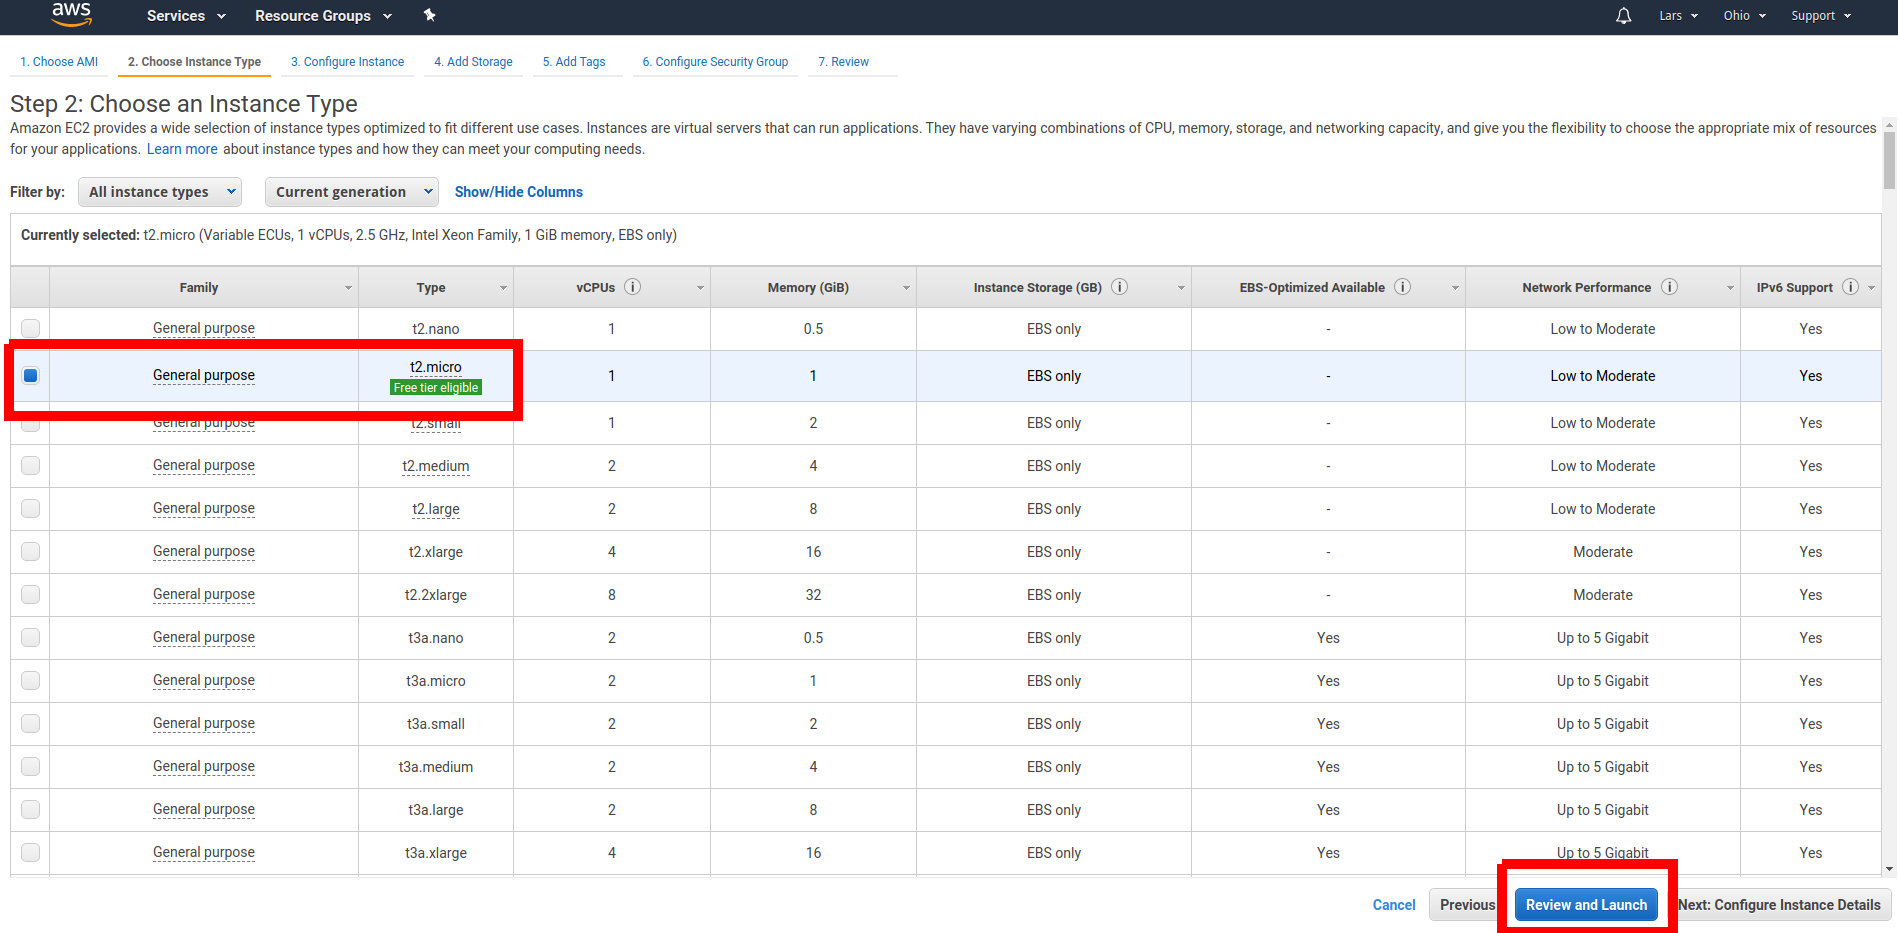
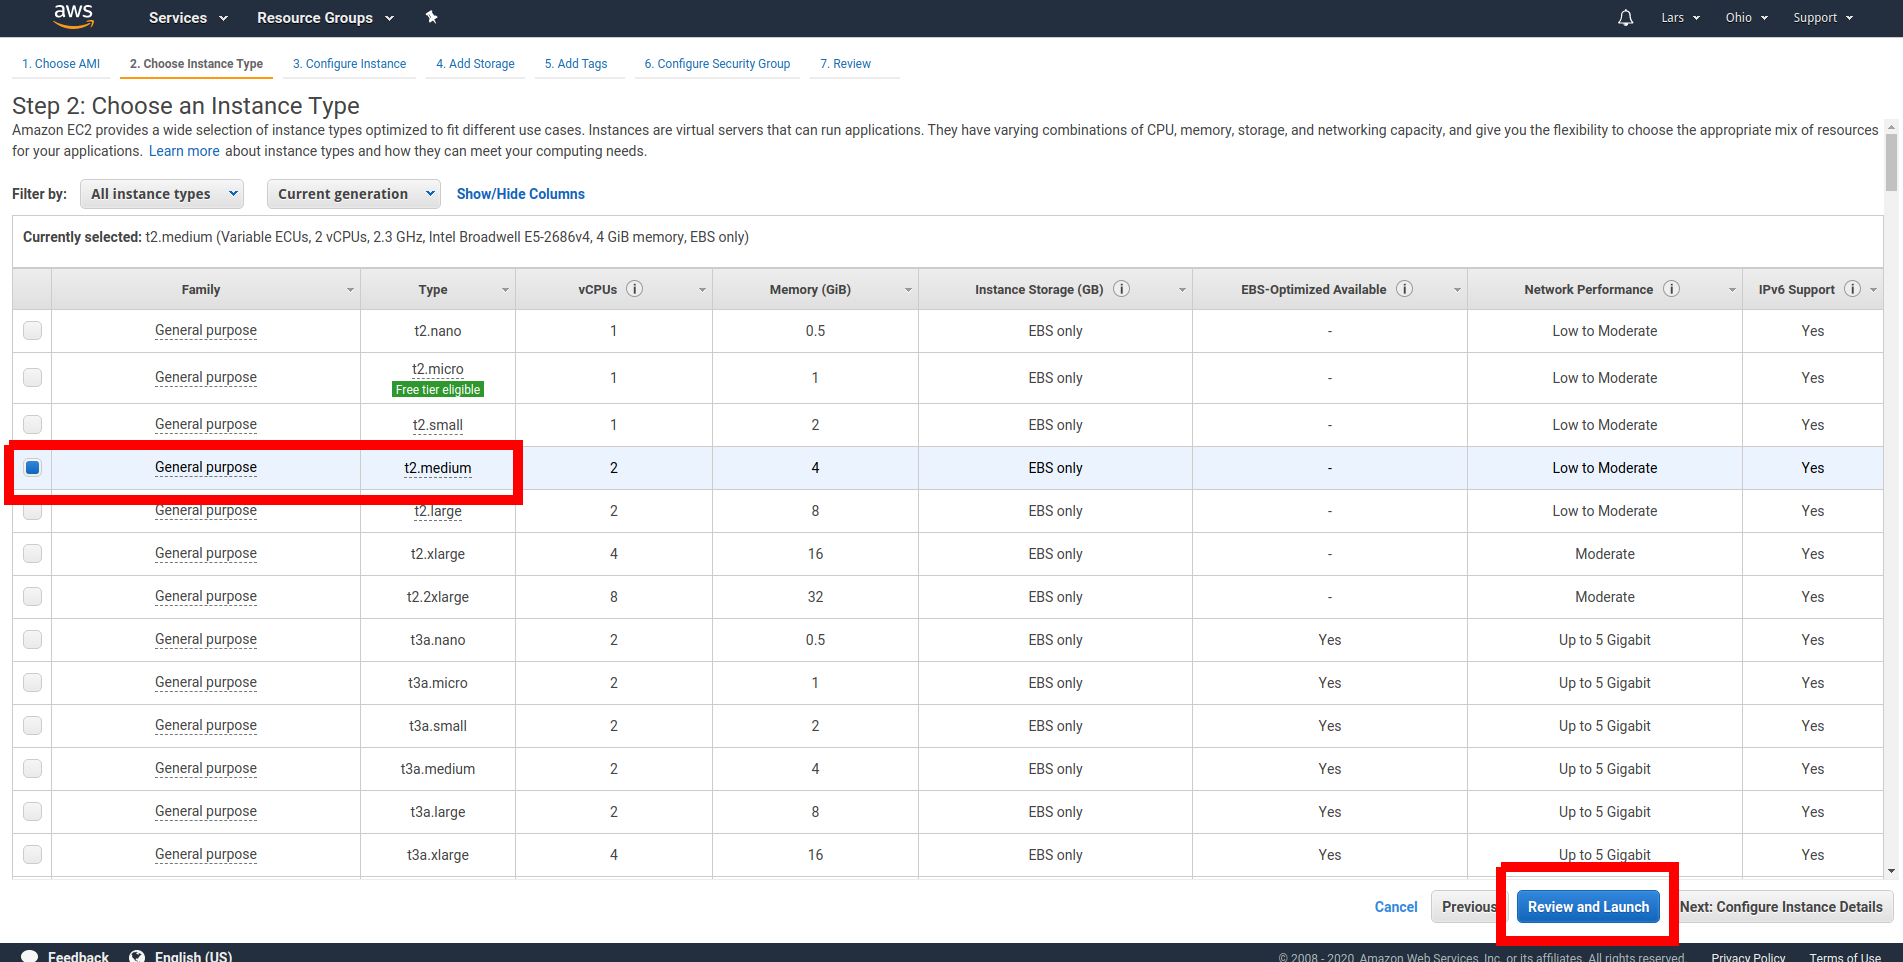
different AWS machine and walk-through for installing and running a node

diff --git a/node-setup/build.md b/node-setup/build.md
@@ -1,0 +1,53 @@
+# Installing and Running a Node
+
+1. We need the following packages and tools on our Linux system to download the source code and build it:
+    - ``git`` (version control system)
+    - ``gcc`` (C and C++ compiler)
+    - ``gmp-devel`` (developer tools for the ``gmp`` arithmetic library)
+    - ``zlib-devel`` (developer tools for the ``zlib`` compression library)
+    - ``systemd-devel`` (developer headers for ``systemd``)
+    - ``ncurses-devel`` (development files for ``ncurses``)
+    - ``stack`` (Haskell build tool)
+
+   If we are using an AWS instance, we can install them as follows:
+
+        sudo yum update -y
+        sudo yum install git gcc gmp-devel -y
+        sudo yum install zlib-devel systemd-devel ncurses-devel -y
+        curl -sSL https://get.haskellstack.org/ | sh
+
+   If you are using a different flavor of Linux, you will need to use the package manager suitable for your platform instead of ``yum``,
+   and the names of the packages might differ.
+
+2. To download the source code, we use git:
+
+        git clone https://github.com/input-output-hk/cardano-node.git
+
+   This should create a folder ``cardano-node``, then download the latest source code from git into it.
+   After the download has finished, we can check its content with change our working directory to the new folder by
+
+        ls cardano-node
+
+3. We change our working directory to the downloaded source code folder:
+
+        cd cardano-node
+
+4. Then we build the node with ``stack``, which will take a couple of minutes (``stack`` first needs to download and install the GHC Haskell compiler, then compile 250+ Haskell
+   packages to build the node):
+
+        stack build
+
+5. If you ever want to update the code to the newest version, go to the ``cardano-node`` directory, pull the latest code with ``git`` and rebuild. 
+   This will be much faster than the initial build:
+
+        cd cardano-node
+        git pull
+        stack build
+
+6. We can start a node on the Cardano mainnet with
+
+        scripts/mainnet.sh
+
+   ![Node running on mainnet](mainnet.png)
+
+Congratulations! You have installed the node, started it and connected it to the Cardano mainnet.

diff --git a/node-setup/AWS.md b/node-setup/AWS.md
@@ -17,7 +17,7 @@ To do so, please follow the steps below:
 
   ![Amazon Machine Image](AMI.png)
 
-6. As Instance Type, choose _t2.micro_, then click _Review and Launch_ and finally _Launch_ on the next screen.
+6. As Instance Type, choose _t2.medium_, then click _Review and Launch_ and finally _Launch_ on the next screen.
 
   ![Instance Type](Instance_Type.png)
 
